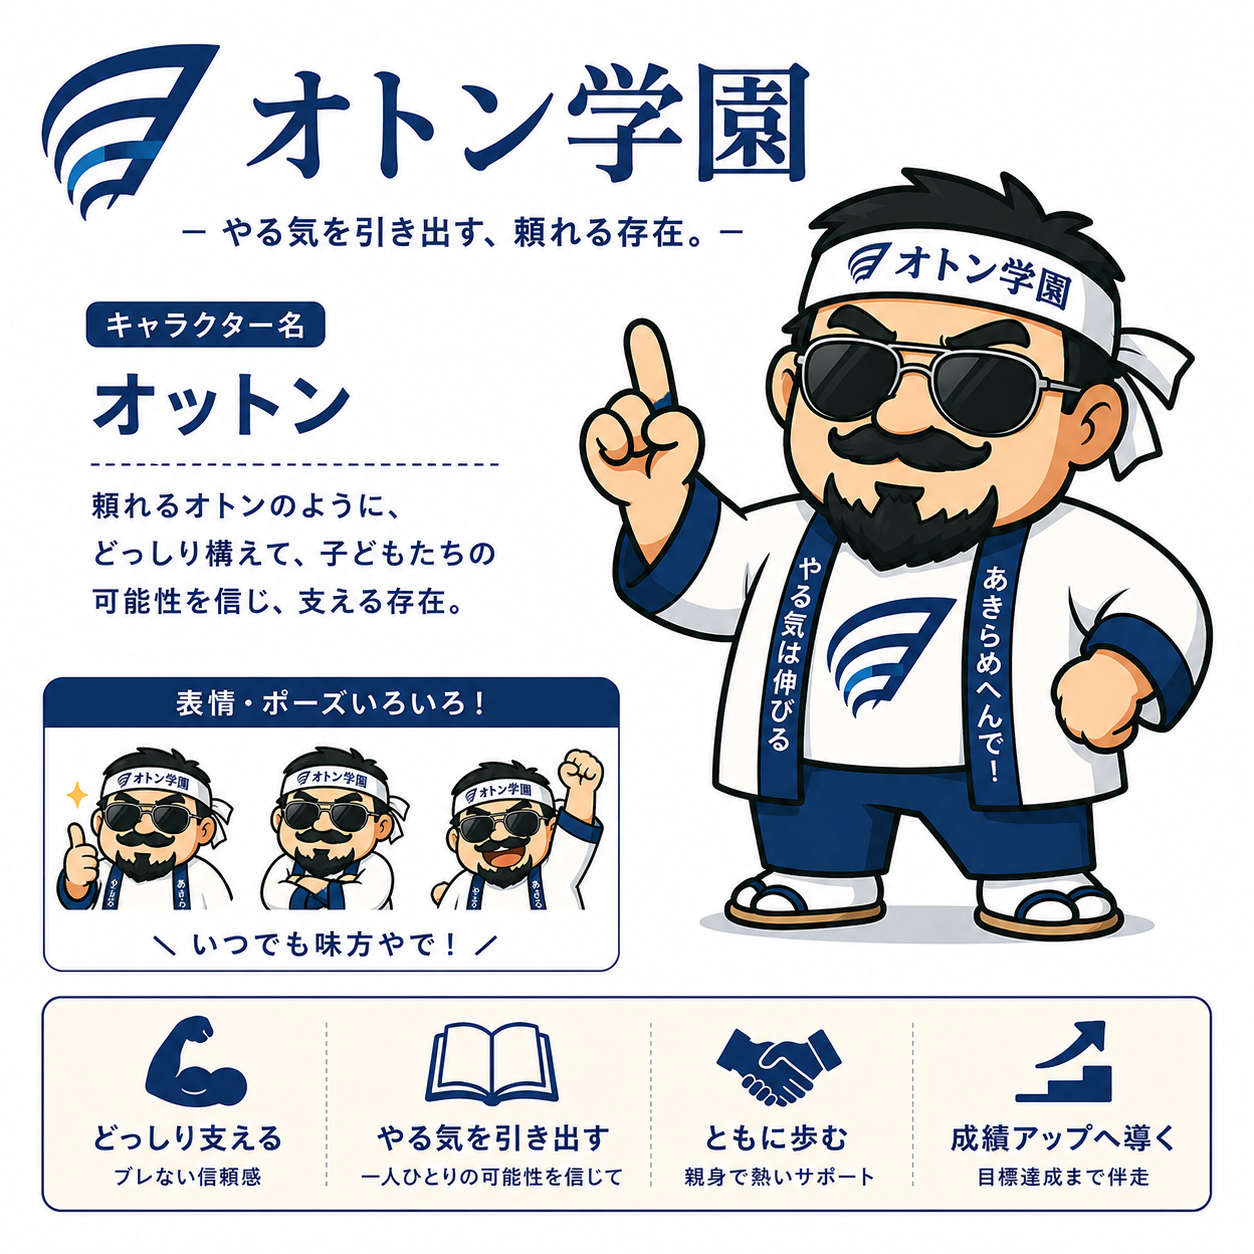
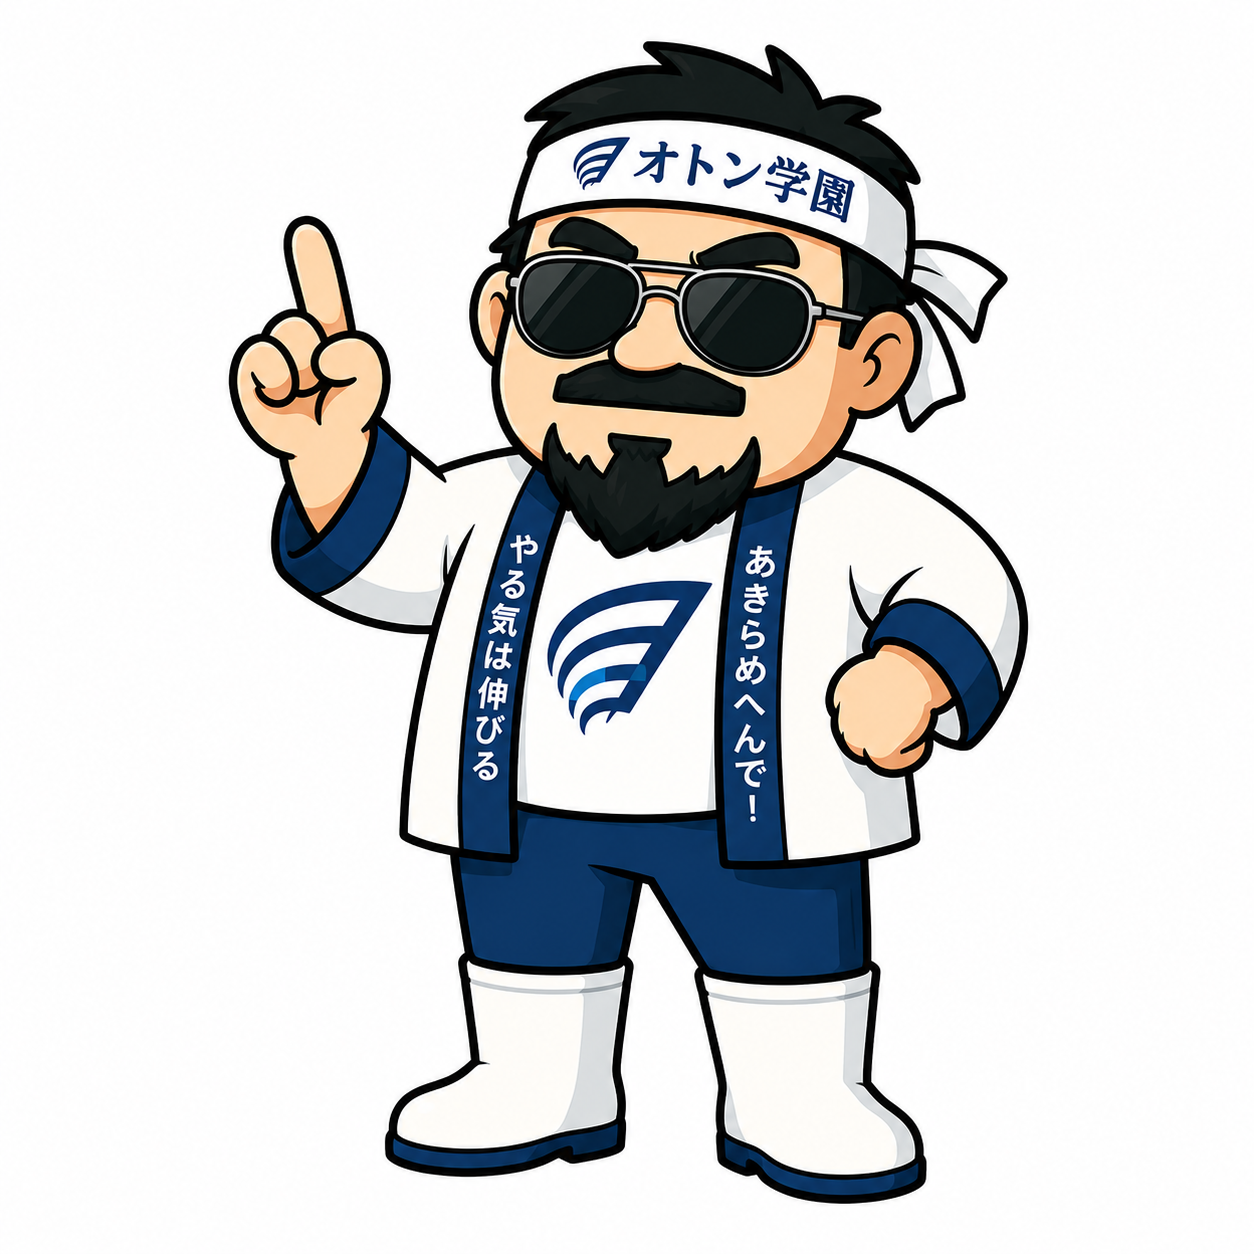
トップページ全面リニューアル
- 白〜薄水色の明るいデザインに変更
- title.png ロゴ画像を上部に配置
- オットンを大きくドーン表示（85vw）
- 「常在戦場！」吹き出しを追加
- 「灘中合格への道」炎グラデ文字
- 入力欄を「受験番号」に変更
- ボタンテキストを「常在戦場！」に変更
- キャラ紹介画面にotton-char.pngを使用

diff --git a/style.css b/style.css
@@ -152,6 +152,127 @@ body {
 .icon-btn:active { background: var(--card2); transform: scale(0.9); }
 
 /* ===== ニックネーム入力 ===== */
+/* ===== タイトル画面（明るいデザイン） ===== */
+.nick-page {
+  display: flex;
+  flex-direction: column;
+  align-items: center;
+  min-height: 100dvh;
+  padding: 40px 20px 32px;
+  padding-top: calc(40px + var(--safe-t));
+  padding-bottom: calc(32px + var(--safe-b));
+  gap: 10px;
+  background: linear-gradient(180deg, #ffffff 0%, #c8deff 100%);
+}
+
+.title-logo-img {
+  width: min(78vw, 300px);
+  height: auto;
+}
+
+.fire-catch {
+  font-size: 1rem;
+  font-weight: 900;
+  letter-spacing: 0.06em;
+  background: linear-gradient(90deg, #ff8c00 0%, #ff2d00 50%, #ff8c00 100%);
+  -webkit-background-clip: text;
+  background-clip: text;
+  -webkit-text-fill-color: transparent;
+  filter: drop-shadow(0 0 8px rgba(255, 80, 0, 0.5));
+}
+
+.otton-hero-wrap {
+  position: relative;
+  width: min(85vw, 360px);
+}
+.otton-hero-img {
+  width: 100%;
+  height: auto;
+  display: block;
+}
+.speech-bubble {
+  position: absolute;
+  top: 8%;
+  right: -4%;
+  background: #fff;
+  border: 3px solid #0f2d6e;
+  border-radius: 18px;
+  padding: 8px 16px;
+  font-size: 1rem;
+  font-weight: 900;
+  color: #0f2d6e;
+  letter-spacing: 0.04em;
+  white-space: nowrap;
+  box-shadow: 2px 3px 8px rgba(0,0,0,0.15);
+}
+.speech-bubble::after {
+  content: '';
+  position: absolute;
+  bottom: -14px;
+  left: 20px;
+  border: 7px solid transparent;
+  border-top-color: #0f2d6e;
+}
+.speech-bubble::before {
+  content: '';
+  position: absolute;
+  bottom: -10px;
+  left: 22px;
+  border: 5px solid transparent;
+  border-top-color: #fff;
+  z-index: 1;
+}
+
+.login-card {
+  display: flex;
+  flex-direction: column;
+  gap: 12px;
+  width: 100%;
+  max-width: 340px;
+  background: #fff;
+  border-radius: var(--radius);
+  padding: 20px;
+  box-shadow: 0 6px 28px rgba(15, 45, 110, 0.15);
+}
+.login-card input {
+  width: 100%;
+  min-height: 52px;
+  padding: 14px 18px;
+  border-radius: var(--radius-sm);
+  border: 2px solid #c5d5ee;
+  background: #f5f8ff;
+  color: #0f2d6e;
+  font-size: 1.1rem;
+  font-weight: 700;
+  text-align: center;
+  outline: none;
+  transition: border-color 0.2s, box-shadow 0.2s;
+}
+.login-card input::placeholder { color: #8fa8cc; font-weight: 500; }
+.login-card input:focus {
+  border-color: #0f2d6e;
+  box-shadow: 0 0 0 3px rgba(15, 45, 110, 0.12);
+}
+.btn-nyuugaku {
+  width: 100%;
+  min-height: 56px;
+  padding: 16px;
+  background: #0f2d6e;
+  color: #fff;
+  border: none;
+  border-radius: var(--radius-sm);
+  font-size: 1.2rem;
+  font-weight: 900;
+  letter-spacing: 0.08em;
+  box-shadow: 0 6px 20px rgba(15, 45, 110, 0.35);
+  transition: transform 0.1s, box-shadow 0.15s;
+}
+.btn-nyuugaku:active {
+  transform: translateY(2px) scale(0.98);
+  box-shadow: 0 3px 10px rgba(15, 45, 110, 0.3);
+}
+
+/* 旧クラス（他画面で参照があるため残す） */
 .center-box {
   display: flex;
   flex-direction: column;
@@ -164,7 +285,6 @@ body {
 .app-logo {
   font-size: 5rem;
   filter: drop-shadow(0 0 28px rgba(124, 92, 255, 0.6));
-  animation: float 3.5s ease-in-out infinite;
 }
 @keyframes float {
   0%, 100% { transform: translateY(0); }
@@ -178,42 +298,9 @@ body {
   -webkit-background-clip: text;
   background-clip: text;
   -webkit-text-fill-color: transparent;
-  filter: drop-shadow(0 0 18px rgba(124, 92, 255, 0.35));
 }
-.app-sub {
-  color: var(--sub);
-  font-size: 0.95rem;
-  font-weight: 600;
-  letter-spacing: 0.05em;
-}
-.nickname-form {
-  display: flex;
-  flex-direction: column;
-  gap: 14px;
-  width: 100%;
-  max-width: 340px;
-  margin-top: 20px;
-}
-.nickname-form input {
-  width: 100%;
-  min-height: 52px;
-  padding: 14px 18px;
-  border-radius: var(--radius-sm);
-  border: 1.5px solid var(--glass-border);
-  background: var(--card);
-  backdrop-filter: blur(12px);
-  -webkit-backdrop-filter: blur(12px);
-  color: var(--text);
-  font-size: 1.1rem;
-  text-align: center;
-  outline: none;
-  transition: border-color 0.2s, box-shadow 0.2s;
-}
-.nickname-form input::placeholder { color: var(--sub); }
-.nickname-form input:focus {
-  border-color: var(--accent);
-  box-shadow: var(--glow-accent);
-}
+.app-sub { color: var(--sub); font-size: 0.95rem; font-weight: 600; }
+.nickname-form { display: flex; flex-direction: column; gap: 14px; width: 100%; max-width: 340px; }
 
 /* ===== ボタン共通 ===== */
 button { cursor: pointer; font-family: inherit; }

diff --git a/index.html b/index.html
@@ -16,14 +16,16 @@
 
 <!-- =============== ニックネーム入力画面 =============== -->
 <div id="screen-nickname" class="screen active">
-  <div class="center-box">
-    <img src="images/otton.png" alt="オットン" class="app-logo-img" onerror="this.style.display='none';document.getElementById('logo-fallback').style.display='block'">
-    <div id="logo-fallback" class="app-logo" style="display:none">🎓</div>
-    <h1 class="app-title">オトン学園</h1>
-    <p class="app-sub">灘中合格への道</p>
-    <div class="nickname-form">
-      <input type="text" id="nickname-input" placeholder="ニックネームを入力" maxlength="10" autocomplete="off">
-      <button id="nickname-btn" class="btn-primary">はじめる！</button>
+  <div class="nick-page">
+    <img src="images/title.png" alt="オトン学園" class="title-logo-img">
+    <p class="fire-catch">🔥 灘中合格への道 🔥</p>
+    <div class="otton-hero-wrap">
+      <div class="speech-bubble">常在戦場！</div>
+      <img src="images/otton.png" alt="オットン" class="otton-hero-img">
+    </div>
+    <div class="login-card">
+      <input type="text" id="nickname-input" placeholder="受験番号を入力" maxlength="20" autocomplete="off">
+      <button id="nickname-btn" class="btn-nyuugaku">常在戦場！</button>
     </div>
   </div>
 </div>
@@ -80,7 +82,7 @@
     <h2 class="top-title">キャラクター紹介</h2>
   </header>
   <div class="char-main">
-    <img src="images/otton.png" alt="オットン" class="otton-large" onerror="this.style.display='none'">
+    <img src="images/otton-char.png" alt="オットン" class="otton-large" onerror="this.style.display='none'">
     <div class="char-name-box">
       <p class="char-school">オトン学園</p>
       <h2 class="char-name">オットン</h2>

diff --git a/app.js b/app.js
@@ -698,7 +698,7 @@ document.querySelectorAll('.back-btn').forEach(btn => {
 
 document.getElementById('nickname-btn').onclick = () => {
   const val = document.getElementById('nickname-input').value.trim();
-  if (!val) { showToast('ニックネームを入力してください'); return; }
+  if (!val) { showToast('受験番号を入力してください'); return; }
   state.nickname = val;
   saveNickname(val);
   initHome();